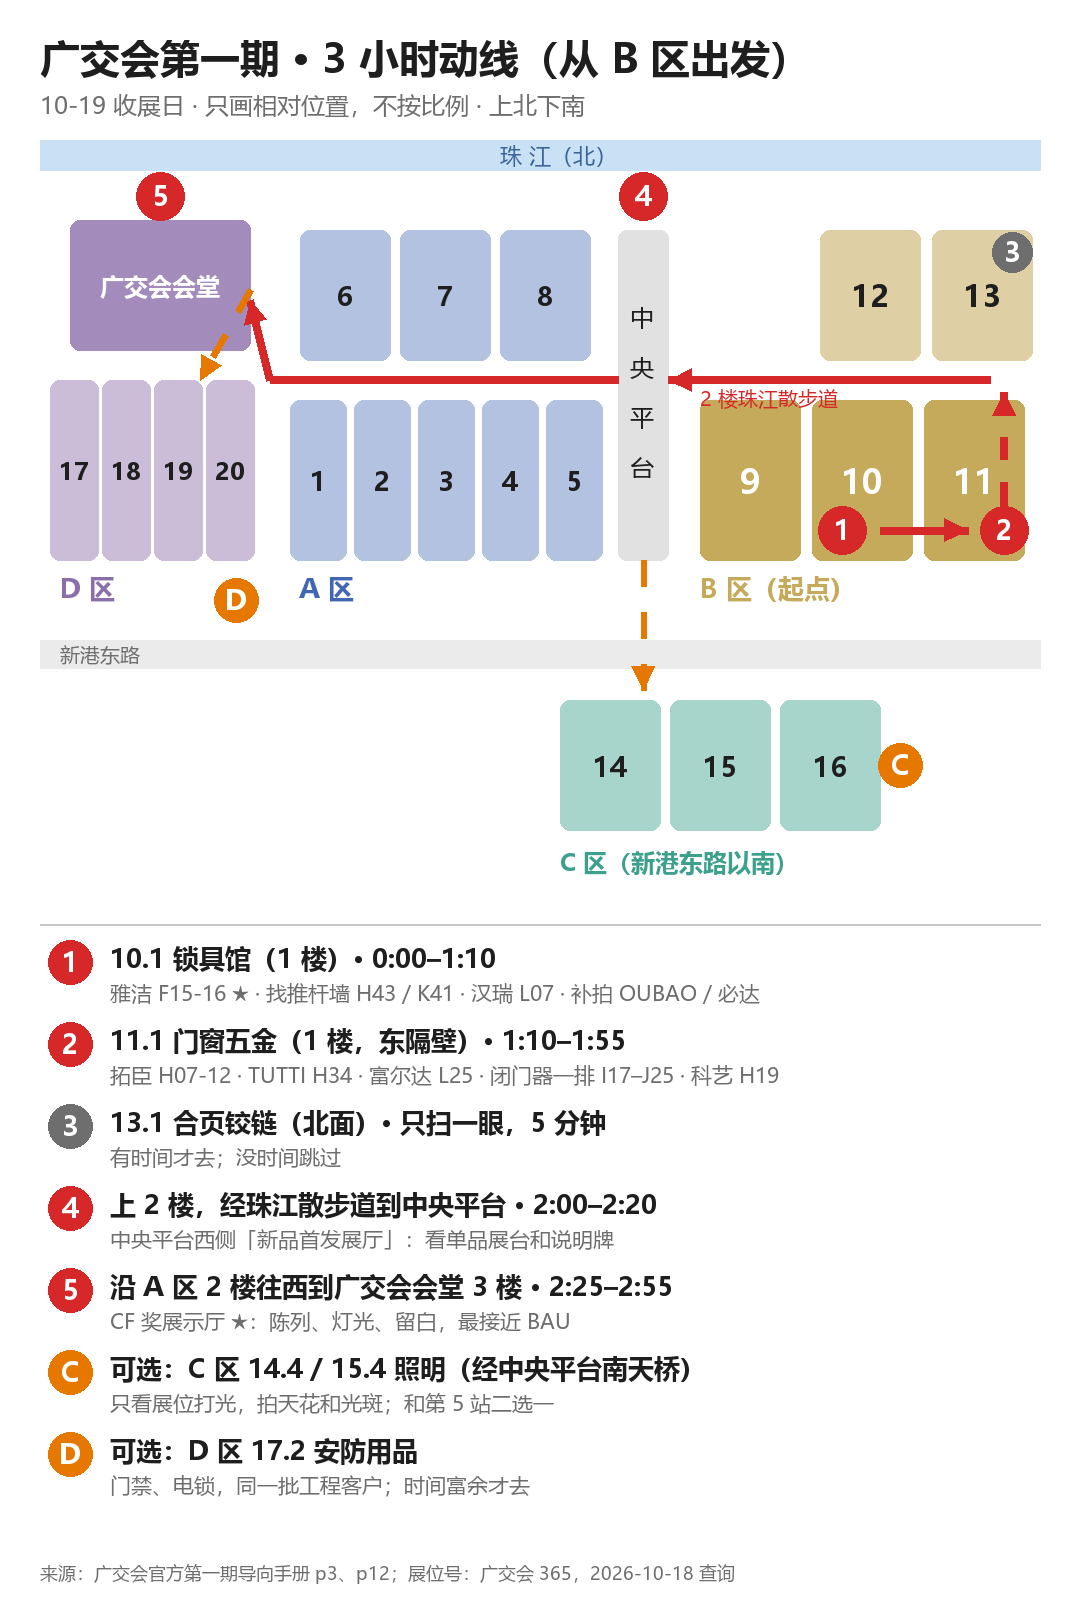
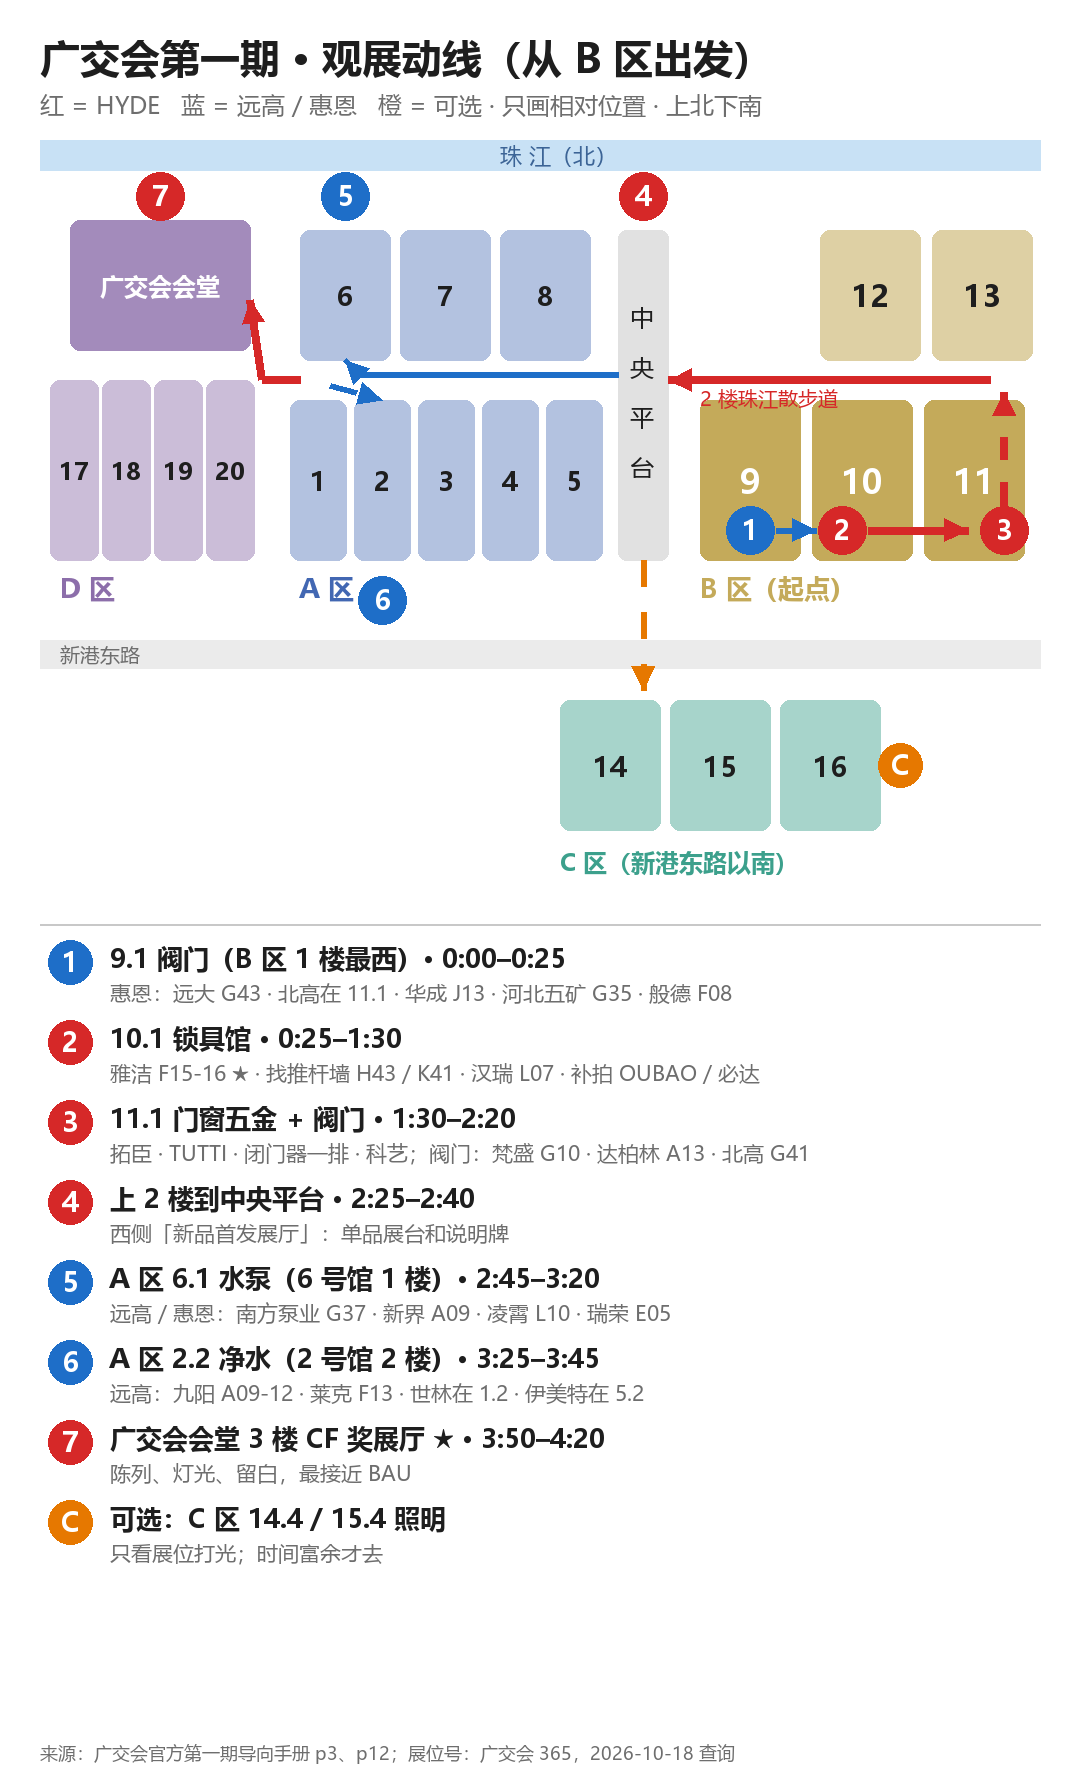
docs：广交会动线加远高/惠恩（阀门 9.1、水泵 6.1、净水 2.2）、目录清单、采购方 5 问

diff --git a/scripts/canton-fair/build_route_map.py b/scripts/canton-fair/build_route_map.py
@@ -12,7 +12,7 @@ from pathlib import Path
 from PIL import Image, ImageDraw, ImageFont
 
 OUT = Path("docs/collaboration/assets/2026-10-19-canton-fair-route.png")
-W, H = 1080, 1600
+W, H = 1080, 1780
 FONT = "C:/Windows/Fonts/msyh.ttc"
 BOLD = "C:/Windows/Fonts/msyhbd.ttc"
 f = lambda s, b=False: ImageFont.truetype(BOLD if b else FONT, s)
@@ -21,11 +21,12 @@ INK, MUTED, LINE = (30, 30, 30), (110, 110, 110), (200, 200, 200)
 AREA = {"A": (66, 103, 178), "B": (196, 170, 90), "C": (60, 160, 140), "D": (140, 110, 170)}
 ROUTE = (214, 40, 40)
 STAR = (230, 120, 0)
+WATER = (30, 110, 200)
 
 im = Image.new("RGB", (W, H), "white")
 d = ImageDraw.Draw(im)
-d.text((40, 30), "广交会第一期 · 3 小时动线（从 B 区出发）", font=f(40, True), fill=INK)
-d.text((40, 88), "10-19 收展日 · 只画相对位置，不按比例 · 上北下南", font=f(24), fill=MUTED)
+d.text((40, 30), "广交会第一期 · 观展动线（从 B 区出发）", font=f(40, True), fill=INK)
+d.text((40, 88), "红 = HYDE   蓝 = 远高 / 惠恩   橙 = 可选 · 只画相对位置 · 上北下南", font=f(24), fill=MUTED)
 
 # 珠江与道路
 d.rectangle([40, 140, W - 40, 170], fill=(200, 225, 245))
@@ -93,40 +94,44 @@ def arrow(points, color=ROUTE, w=8, dash=False):
     d.polygon([(x1, y1), (x1 - L * math.cos(ang - 0.45), y1 - L * math.sin(ang - 0.45)), (x1 - L * math.cos(ang + 0.45), y1 - L * math.sin(ang + 0.45))], fill=color)
 
 
-# 路线：10.1 → 11.1 →（13.1）→ 2 楼散步道 → 中央平台 → A 区散步道 → 广交会会堂 3 楼
-arrow([(880, 530), (968, 530)])
-badge((842, 530), 1)
-badge((1004, 530), 2)
+# 路线：9.1 阀门 → 10.1 → 11.1 → 2 楼散步道 → 中央平台（新品首发）→ A 区 6.1 泵 → A 区 2.2 净水 → 广交会会堂 3 楼
+badge((750, 530), 1, WATER)
+arrow([(776, 530), (816, 530)], WATER, 6)
+badge((842, 530), 2)
+arrow([(868, 530), (968, 530)])
+badge((1004, 530), 3)
 arrow([(1004, 505), (1004, 392)], dash=True)
-badge((1012, 252), 3, MUTED, 20)
 arrow([(990, 380), (700, 380), (668, 380)])
 badge((643, 196), 4)
-arrow([(618, 380), (270, 380), (250, 300)])
-badge((160, 196), 5)
 d.text((700, 384), "2 楼珠江散步道", font=f(20), fill=ROUTE)
+arrow([(618, 375), (360, 375), (345, 360)], WATER, 6)
+badge((345, 196), 5, WATER)
+arrow([(330, 385), (382, 400)], WATER, 6, dash=True)
+badge((382, 600), 6, WATER)
+arrow([(300, 380), (262, 380), (250, 300)])
+badge((160, 196), 7)
 # 可选：C 区照明、D 区 17.2 安防
 arrow([(643, 560), (643, 690)], STAR, 6, dash=True)
 badge((900, 765), "C", STAR, 22)
-arrow([(250, 290), (200, 380)], STAR, 6, dash=True)
-badge((236, 600), "D", STAR, 22)
 
 # 图例 / 时间
 y = 940
 d.line((40, y - 16, W - 40, y - 16), fill=LINE, width=2)
 items = [
-    (ROUTE, "1", "10.1 锁具馆（1 楼）· 0:00–1:10", "雅洁 F15-16 ★ · 找推杆墙 H43 / K41 · 汉瑞 L07 · 补拍 OUBAO / 必达"),
-    (ROUTE, "2", "11.1 门窗五金（1 楼，东隔壁）· 1:10–1:55", "拓臣 H07-12 · TUTTI H34 · 富尔达 L25 · 闭门器一排 I17–J25 · 科艺 H19"),
-    (MUTED, "3", "13.1 合页铰链（北面）· 只扫一眼，5 分钟", "有时间才去；没时间跳过"),
-    (ROUTE, "4", "上 2 楼，经珠江散步道到中央平台 · 2:00–2:20", "中央平台西侧「新品首发展厅」：看单品展台和说明牌"),
-    (ROUTE, "5", "沿 A 区 2 楼往西到广交会会堂 3 楼 · 2:25–2:55", "CF 奖展示厅 ★：陈列、灯光、留白，最接近 BAU"),
-    (STAR, "C", "可选：C 区 14.4 / 15.4 照明（经中央平台南天桥）", "只看展位打光，拍天花和光斑；和第 5 站二选一"),
-    (STAR, "D", "可选：D 区 17.2 安防用品", "门禁、电锁，同一批工程客户；时间富余才去"),
+    (WATER, "1", "9.1 阀门（B 区 1 楼最西）· 0:00–0:25", "惠恩：远大 G43 · 北高在 11.1 · 华成 J13 · 河北五矿 G35 · 般德 F08"),
+    (ROUTE, "2", "10.1 锁具馆 · 0:25–1:30", "雅洁 F15-16 ★ · 找推杆墙 H43 / K41 · 汉瑞 L07 · 补拍 OUBAO / 必达"),
+    (ROUTE, "3", "11.1 门窗五金 + 阀门 · 1:30–2:20", "拓臣 · TUTTI · 闭门器一排 · 科艺；阀门：梵盛 G10 · 达柏林 A13 · 北高 G41"),
+    (ROUTE, "4", "上 2 楼到中央平台 · 2:25–2:40", "西侧「新品首发展厅」：单品展台和说明牌"),
+    (WATER, "5", "A 区 6.1 水泵（6 号馆 1 楼）· 2:45–3:20", "远高 / 惠恩：南方泵业 G37 · 新界 A09 · 凌霄 L10 · 瑞荣 E05"),
+    (WATER, "6", "A 区 2.2 净水（2 号馆 2 楼）· 3:25–3:45", "远高：九阳 A09-12 · 莱克 F13 · 世林在 1.2 · 伊美特在 5.2"),
+    (ROUTE, "7", "广交会会堂 3 楼 CF 奖展厅 ★ · 3:50–4:20", "陈列、灯光、留白，最接近 BAU"),
+    (STAR, "C", "可选：C 区 14.4 / 15.4 照明", "只看展位打光；时间富余才去"),
 ]
 for color, n, title, sub in items:
     badge((70, y + 22), n, color, 22)
     d.text((110, y), title, font=f(26, True), fill=INK)
     d.text((110, y + 38), sub, font=f(21), fill=MUTED)
-    y += 82
+    y += 80
 d.text((40, H - 40), "来源：广交会官方第一期导向手册 p3、p12；展位号：广交会 365，2026-10-18 查询", font=f(18), fill=MUTED)
 
 OUT.parent.mkdir(parents=True, exist_ok=True)

diff --git a/docs/collaboration/2026-10-19-手动操作-广交会补拍清单.md b/docs/collaboration/2026-10-19-手动操作-广交会补拍清单.md
@@ -1,8 +1,10 @@
-# 广交会 10-19 · 3 小时动线与拍摄指南（手机看）
+# 广交会 10-19 · 观展动线与拍摄指南（手机看）
 
-![广交会第一期 3 小时动线图](assets/2026-10-19-canton-fair-route.png)
+![广交会第一期观展动线图](assets/2026-10-19-canton-fair-route.png)
 
 **今天是第一期收展日，参展证到 10-19。** 门锁五金在 B 区 1 楼：10.1 锁具馆、11.1 门窗五金馆，两馆东西相邻。展位号来自广交会 365 官方搜索，10-18 查询。
+
+**地图颜色**：红色站是 HYDE，蓝色站是远高、惠恩，橙色是可选。
 
 **这一趟要带回来的三样东西：**
 
@@ -12,23 +14,28 @@
 
 ## 一、时间表
 
+**完整版约 4.5 小时**，三个网站一起看：
+
 | 时间 | 站 | 在哪 |
 |---|---|---|
-| 0:00–1:10 | ① 10.1 锁具 | B 区 1 楼，中间 |
-| 1:10–1:55 | ② 11.1 门窗五金 | B 区 1 楼，10.1 东边 |
-| 1:55–2:00 | ③ 13.1 合页（可跳过） | B 区 1 楼北面 |
-| 2:00–2:20 | ④ 新品首发展厅 | 上 2 楼，珠江散步道往西，中央平台西侧 |
-| 2:25–2:55 | ⑤ CF 奖展示厅 | 沿 A 区 2 楼一直往西，广交会会堂 3 楼 |
-| 余下时间 | Ⓒ 照明 或 Ⓓ 安防 | 二选一，见第二节末 |
+| 0:00–0:25 | ① 9.1 阀门（惠恩） | B 区 1 楼最西，10.1 西隔壁 |
+| 0:25–1:30 | ② 10.1 锁具（HYDE） | B 区 1 楼中间 |
+| 1:30–2:20 | ③ 11.1 门窗五金 + 阀门 | B 区 1 楼东，10.1 东隔壁 |
+| 2:25–2:40 | ④ 新品首发展厅 | 上 2 楼，珠江散步道往西，中央平台西侧 |
+| 2:45–3:20 | ⑤ 6.1 水泵（远高、惠恩） | A 区 6 号馆 1 楼（A 区北排最西） |
+| 3:25–3:45 | ⑥ 2.2 净水（远高） | A 区 2 号馆 2 楼 |
+| 3:50–4:20 | ⑦ CF 奖展示厅 | A 区往西，广交会会堂 3 楼 |
+
+**只有 3 小时**：去掉 ①⑤⑥，只走 ②③④⑦，其中 ③ 不看阀门。远高、惠恩的企业留到最后，有余力再补。
 
 **提醒：**
 
-- 开馆后头 30 分钟人最少，先拍最重要的雅洁。
-- 每站结束看一眼时间，超时就砍后面的可选站，不砍 ①②⑤。
+- 开馆后头 30 分钟人最少，先去最重要的雅洁（10.1F15-16）；9.1 阀门可以放到 10.1 之后再回头。
+- 每站结束看一眼时间。超时先砍 ⑥ 和可选站；HYDE 的 ②③④⑦ 不砍。
 
 ## 二、每站看谁、拍什么
 
-### ① 10.1 锁具馆（70 分钟）
+### ② 10.1 锁具馆（65 分钟）
 
 展位号字母越小越靠馆的一头。**按字母顺序走**，不走回头路：
 
@@ -43,7 +50,7 @@
 - **K47 坚士**：执手。看执手墙怎么排。
 - **L07 山东汉瑞 ★**：闭门器、合页、锁体、锁芯，全品类，和我们最像。重点看小展位怎么放这么多品类不乱，正面全景加每面墙正对各一张。
 
-### ② 11.1 门窗五金馆（45 分钟）
+### ③ 11.1 门窗五金馆（50 分钟，含阀门）
 
 - **D05-06 顶固**：品牌家居五金。只拍品牌形象墙和门头。
 - **E33-34 / F13-14 广润、F11-12 / E35-36 星鹏**：品牌合页。拍合页怎么展示：开合角度、承重演示。
@@ -52,10 +59,6 @@
 - **H34-35 TUTTI**：已拍过。补拍：数字墙特写、「Regional Agents Wanted」立牌特写。拿一张传单。
 - **I17-18 志盛门控、I19 海达门控、J20 敦豪斯、J25 欧德门控**：闭门器这一排一口气走完。每家看有没有能推的演示门，有就录一段 10 秒关门视频。
 - **L25-26 富尔达**：闭门器、地弹簧、防火门。
-
-### ③ 13.1 合页铰链（可跳过，5 分钟）
-
-只扫一眼，没有特别要找的。
 
 ### ④ 新品首发展厅（20 分钟）
 
@@ -68,7 +71,7 @@
 - 3 个你觉得最好的展台，每个拍正面一张、说明牌特写一张；
 - 一张全厅。
 
-### ⑤ CF 奖展示厅 ★（30 分钟）
+### ⑦ CF 奖展示厅 ★（30 分钟）
 
 沿 A 区 2 楼一直往西，到广交会会堂，上 3 楼。
 
@@ -89,8 +92,50 @@
 
 ### 不用去
 
-- **A 区家电，C 区摩托车、新能源，D 区机械、电子**：大品牌整馆特装，和 BAU 三面墙小展位不是一回事。
+- **A 区家电（⑥ 2.2 净水除外），C 区摩托车、新能源，D 区机械、电子**：大品牌整馆特装，和 BAU 三面墙小展位不是一回事。
 - **智慧生活专区（A 区 3.2、4.2，D 区 20.2）**：有智能门锁，但我们不卖。顺路就看 5 分钟，不顺路就算了。
+
+### 远高、惠恩：①⑤⑥ 三站，和③里的阀门
+
+**先说明**：远高是水处理网站。惠恩我这边没有产品资料，按你说的「水泵阀门」方向挑的。如果惠恩主营别的，告诉我，我重新查。
+
+**① 9.1 阀门（25 分钟，B 区 1 楼最西）：**
+
+- **G43 天津远大阀门 ★**：球阀、闸阀、蝶阀、过滤器、管件，品类最全。
+- **J13-14 / I35-36 宁波华成阀门**：品牌企业。
+- **G35-36 / H11-12 河北五矿**：品牌企业，球阀、蝶阀。
+- **F08 般德阀门**：品类全。
+- **H11-12 玉环华能叶轮**：品牌企业，球阀。
+
+**③ 11.1 里的阀门（顺路）：**
+
+- **G10-11 / F37-38 浙江梵盛流体**：品牌企业。
+- **A13-14 / B09-10 达柏林阀门**：品牌企业。
+- **G41-42 北京北高阀门**：品类全。
+
+**⑤ 6.1 水泵（35 分钟，A 区 6 号馆 1 楼）：** 6.1 是水泵最集中的馆，品牌大厂多：
+
+- **G37-38 / H11-12 南方泵业 ★**：离心泵、水处理。
+- **A09-12 / B13-16 新界泵业 ★**：大品牌，展位大。
+- **L10-12 / K37-39 凌霄泵业**：增压泵。
+- **E05-06 / D43-44 瑞荣泵业**：离心泵、潜水泵、增压泵，品类全。
+- **E21-22 / D27-28 福建爱的**：增压泵和净水器都有，和远高最近。
+- **E17-18 / D31-32 丰球克瑞**：水处理泵。
+
+**⑥ 2.2 净水（20 分钟，A 区 2 号馆 2 楼）：**
+
+- **A09-12 / B13-16 九阳 ★**：CF 奖，净水器、过滤器。看家用净水怎么讲给消费者听。
+- **F13-19 / E30-36 莱克**：CF 奖，净水器。
+- 时间多可以去：**1.2B37 宁波世林**（净水器）、**5.2C18 伊美特**（反渗透、净水）。
+
+**这三站拍什么（给远高、惠恩网站用）：**
+
+- **剖面模型 ★**：水泵、阀门切开展示内部结构，这是这一行最有说服力的展示。每家有就拍正面一张、特写一张。
+- **性能曲线和参数牌**：流量—扬程曲线、压力等级（PN16、Class 150）、口径。拍清楚，看他们怎么把数字讲给买家。
+- **认证墙**：CE、NSF、WRAS、ISO，还有水表、阀门常见的检测标识。
+- **应用场景**：农业灌溉、楼宇供水、家用净水、工业循环水，看他们用什么图、什么样板间。
+- **净水的「过滤级数」展示**：透明滤芯、分层演示。
+- **视频**：水泵运转演示（有水循环的展台），10–15 秒。
 
 ## 三、照片怎么拍（每个重点摊位 8 张）
 
@@ -139,7 +184,73 @@
 
 **为什么要你练这个**：我们的标准是「让谨慎的买家更愿意下单」，不是「好看」。BAU 的观众是建筑师和门厂采购，他们相信的是型号牌上的标准号、能按的推杆、对得上的尺寸，不是渐变色和大屏幕。你现场一句「这里乱」「这个光好」，比 20 张照片更有用，我设计时就按你的判断取舍。
 
-## 六、手上 72 张里现在能用的
+## 六、要谁的目录（每家一份，拿不到就拍封面和目录页）
+
+**HYDE：**
+
+- 雅洁 ★
+- OUBAO 瓯宝
+- 山东汉瑞
+- 铁神
+- 梅花
+- 富尔达
+- TUTTI
+- 拓臣 TOPCENT
+- 推杆墙那家 ★
+
+**远高：**
+
+- 南方泵业
+- 新界泵业
+- 凌霄泵业
+- 九阳（净水）
+- 伊美特（反渗透）
+
+**惠恩：**
+
+- 远大阀门
+- 北高阀门
+- 梵盛
+- 达柏林
+- 华成
+- 瑞荣泵业
+
+**拿到目录后**：拍一张封面、一张目录页、一张产品页。我主要看三样：
+
+- 分类怎么排；
+- 每个产品页给哪些参数；
+- 版式。
+
+我们 HYDE 的广交会画册正在做，直接用得上。
+
+## 七、我帮你补充的：顺便带回来的情报
+
+你戴的是「境外采购商陪同人员」证，可以以采购方身份问问题。每家重点企业问这 5 个，记在备忘录：
+
+1. **MOQ**：最小起订量多少。
+2. **交期**：打样几天，大货几天。
+3. **认证**：有哪些证书，能不能给证书编号。
+4. **OEM**：能不能贴牌，包装能不能定制。
+5. **主要市场**：出口哪些国家最多。
+
+**问这 5 个的用处：**
+
+- 我们网站上写的 MOQ、交期、认证，要放在同行旁边比，才知道有没有竞争力。
+- 这些答案也决定 BAU 摊位上写哪几个数字。
+
+**再留意 4 个趋势（拍到就行，不用专门找）：**
+
+1. **表面颜色**：哑光黑、拉丝金、枪灰，各家主推什么。
+2. **智能化**：普通五金摊位有没有加电子锁、门禁。
+3. **认证标识**：有几家把 EN 标准、UL 号写在展板上。
+4. **展台材料**：木纹板、金属网板、亚克力，哪种最多、哪种最显档次。
+
+**照片怎么交给我（回来后）：**
+
+- 每家先拍摊位号牌，后面跟着这家的照片，不用你分文件夹。
+- 打包时把备忘录里的评语一起发我。
+
+## 八、手上 72 张里现在能用的
 
 **可以发**（新闻、LinkedIn，写「我们在广州、在广交会见客户」，**不能写参展**）：
 
@@ -153,7 +264,7 @@
 - **#71、#72 参展证**：有姓名、照片、二维码。
 - **别家摊位、人群近景**：只作内部参考。
 
-## 七、还需要的资料
+## 九、还需要的资料
 
 **今天顺手拿到：**
 
@@ -174,7 +285,7 @@
 - 证书原件：平拍、无反光。
 - 样品室、包装、装柜。
 
-## 八、第二期才是我们的客户
+## 十、第二期才是我们的客户
 
 - **第二期 10-23 至 10-27**：建筑装饰材料、卫浴、家具。门厂、门窗厂、工程采购都在这一期。
 - **值得再办一张证**：看门厂怎么展示整樘门、五金怎么配，这正是 BAU「一樘真门」要学的。

diff --git a/docs/collaboration/CLIENT-RUNBOOK.md b/docs/collaboration/CLIENT-RUNBOOK.md
@@ -19,7 +19,7 @@
 
 ## 现在要做的（2026-10-19）：广交会最后一天补拍（10.1 / 11.1 馆）
 
-参展证只到 10-19。3 小时动线（含地图）：10.1 锁具 → 11.1 门窗五金 → 2 楼新品首发展厅 → 广交会会堂 3 楼 CF 奖展厅。重点是雅洁 10.1F15-16，并找到那面逃生推杆墙是哪家；每个重点摊位拍 8 张、录 4 段，再写一句评语。手上 72 张里只有 #68、#63、#64、#44、#45、#51 能直接发。清单见桌面 `hyde` → `00-先看这里-人工待办` → `2026-10-19-手动操作-广交会补拍清单.docx`。
+参展证只到 10-19。观展动线（含地图）：9.1 阀门 → 10.1 锁具 → 11.1 门窗五金 → 2 楼新品首发 → A 区 6.1 水泵 → 2.2 净水 → 广交会会堂 3 楼 CF 奖展厅；远高、惠恩的企业和要拿的目录也在里面。重点是雅洁 10.1F15-16，并找到那面逃生推杆墙是哪家；每个重点摊位拍 8 张、录 4 段，再写一句评语。手上 72 张里只有 #68、#63、#64、#44、#45、#51 能直接发。清单见桌面 `hyde` → `00-先看这里-人工待办` → `2026-10-19-手动操作-广交会补拍清单.docx`。
 
 ## 现在要做的（2026-10-16）：Cloudflare 屏蔽中国 IP 和中国 AI 爬虫（约 10 分钟）
 

diff --git a/docs/collaboration/agent-updates/2026-10-18-claude-canton-fair-photos.md b/docs/collaboration/agent-updates/2026-10-18-claude-canton-fair-photos.md
@@ -5,3 +5,4 @@
 - 没有往网站加任何图片；别家 logo、产品不得上站。
 - 10-18 追加：补拍清单 `docs/collaboration/2026-10-19-手动操作-广交会补拍清单.md`（展位号取自广交会 365 官方搜索），runbook 顶部加指引。
 - 10-18 第三版：清单改为 3 小时动线 + 地图（`scripts/canton-fair/build_route_map.py` 生成 `docs/collaboration/assets/2026-10-19-canton-fair-route.png`），照片和视频机位、审美五问。`build-client-runbook-docx.mjs` 新增 `![说明](路径)` 嵌图。
+- 10-18 第四版：加远高（水处理）、惠恩（按甲方说的水泵阀门）路线：9.1 阀门、A 区 6.1 水泵、2.2 净水；目录清单；采购方 5 问。展位号来自广交会 365 接口 queryshop，10-18 查询。
